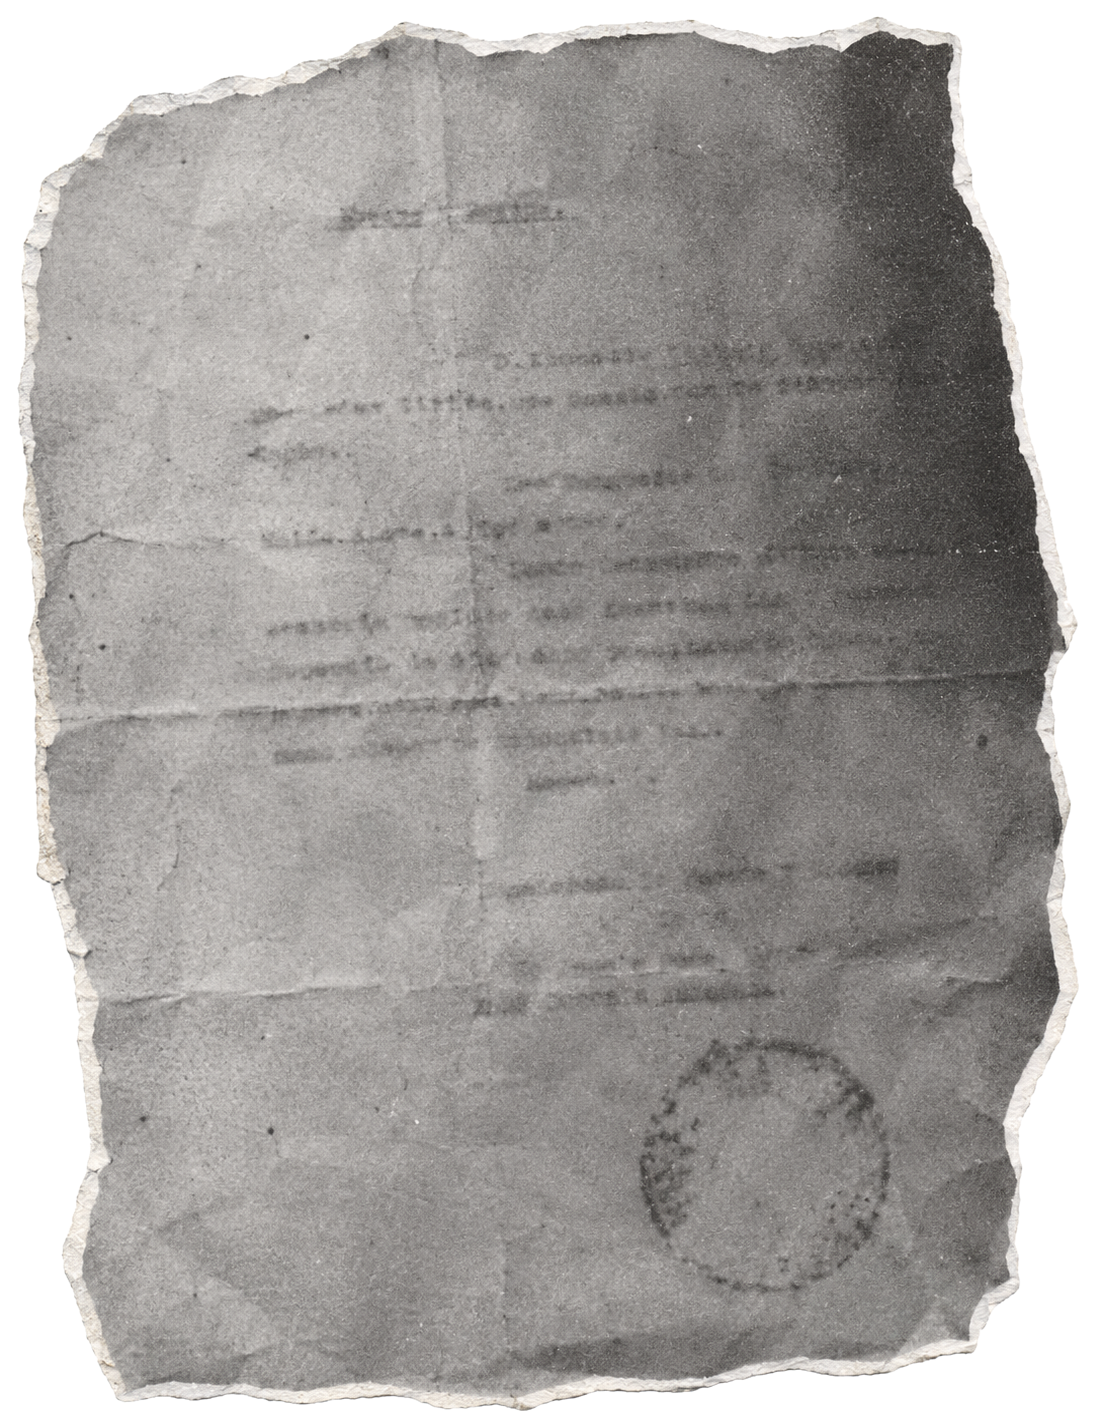
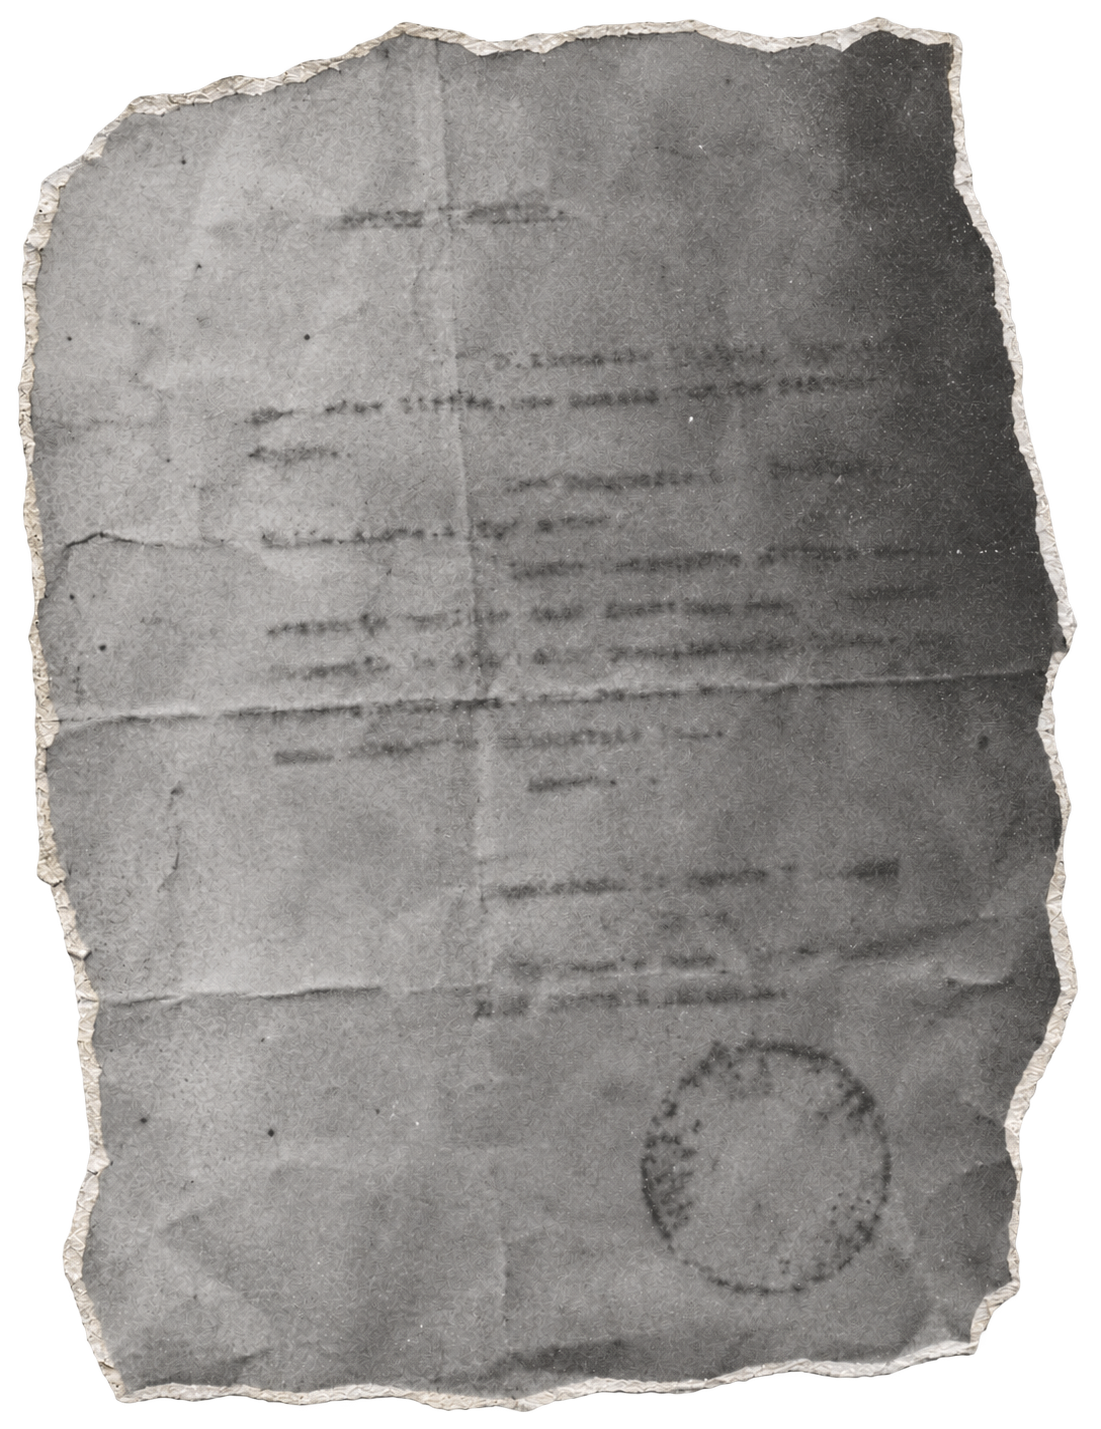
Bernsteinzimmer: updated sheet S02 (user cutouts v2)
Claude-Session: https://claude.ai/code/session_01ELWn3TvQSi69zCVub7W5Rc

diff --git a/projects/bernsteinzimmer/assets/manifest.md b/projects/bernsteinzimmer/assets/manifest.md
@@ -5,7 +5,7 @@
 | S01_2_radar | Bodenradar-Gerät | v2 vom Nutzer (bereits freigestellt) |
 | S01_3_laptop | Laptop mit Radar-Anomalie | v2 vom Nutzer (bereits freigestellt) |
 | S01_4_schatzsucher | Schatzsucher mit Schaufel | v2 vom Nutzer (bereits freigestellt) |
-| S02_1_schreiben | amtliches Schreiben mit Siegel | ausgeschnitten |
-| S02_2_lupe_erde | Hand mit Lupe über Erde | ausgeschnitten |
-| S02_3_metalldetektor | Metalldetektor | ausgeschnitten |
-| S02_4_bagger | Bagger gräbt Loch | ausgeschnitten |
+| S02_1_schreiben | amtliches Schreiben mit Siegel | v2 vom Nutzer (bereits freigestellt) |
+| S02_2_lupe | Hand mit Lupe (ohne Erde) | v2 vom Nutzer (bereits freigestellt) |
+| S02_3_metalldetektor | Metalldetektor | v2 vom Nutzer (bereits freigestellt) |
+| S02_4_bagger | Bagger gräbt Loch | v2 vom Nutzer (bereits freigestellt) |
